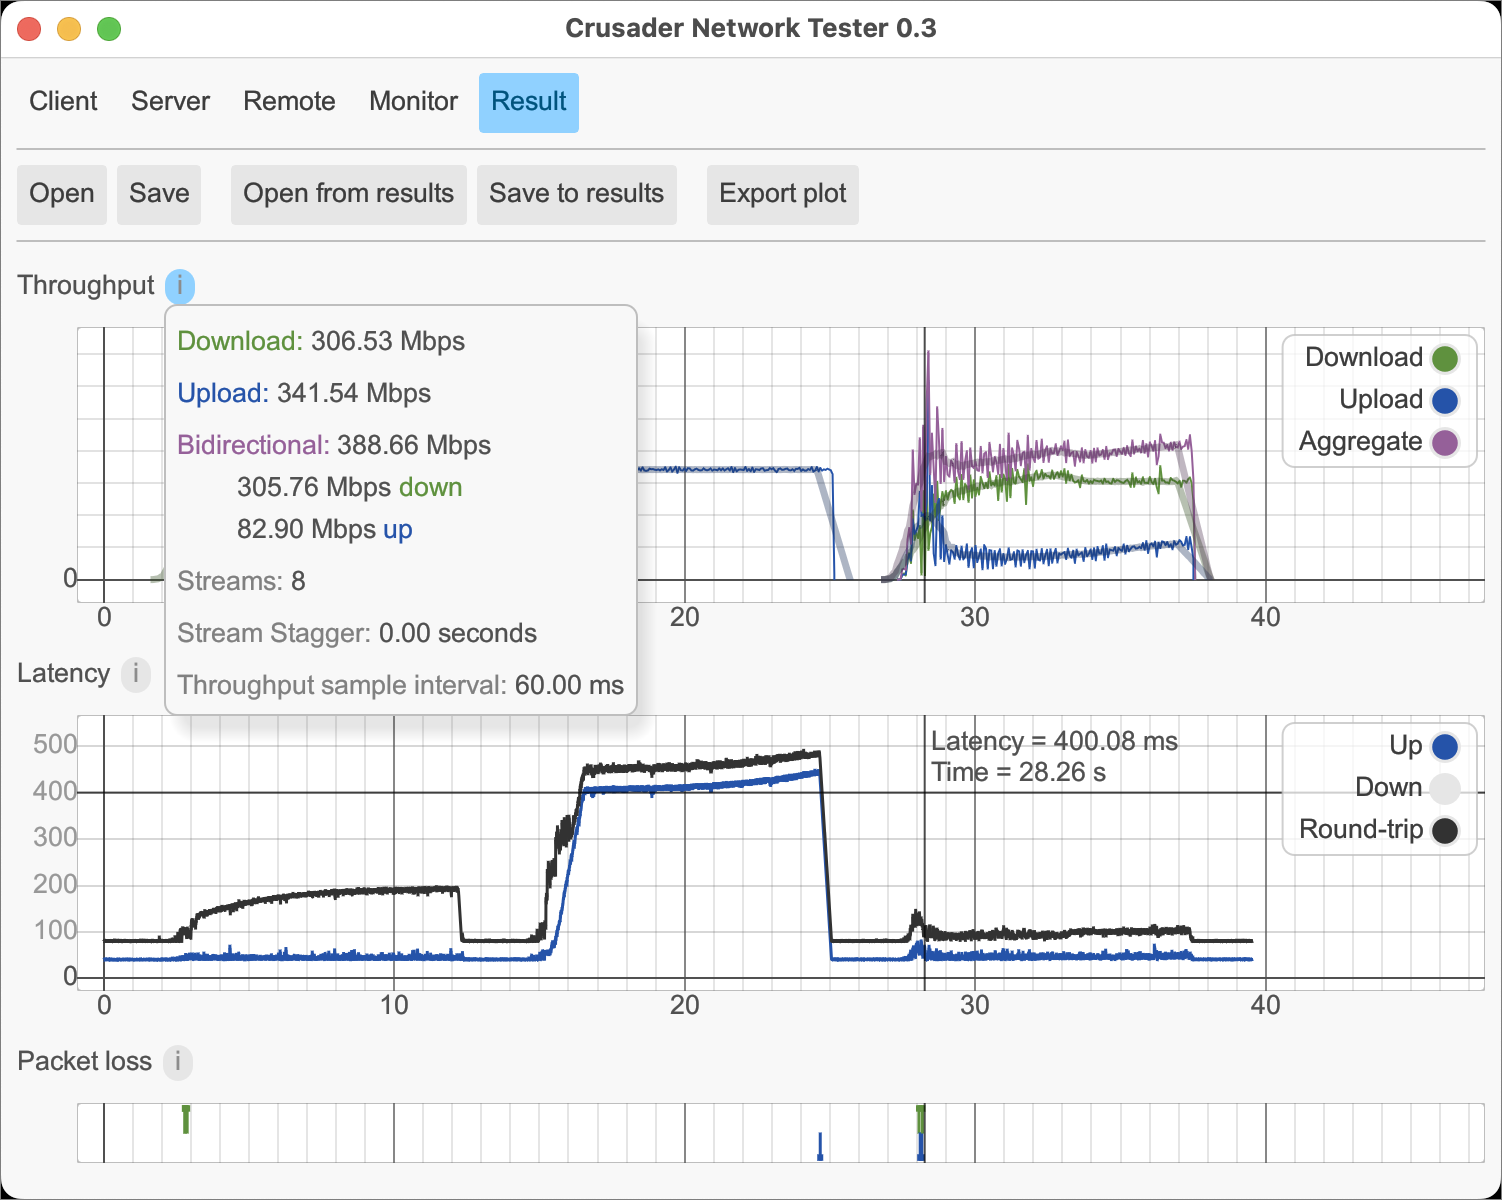
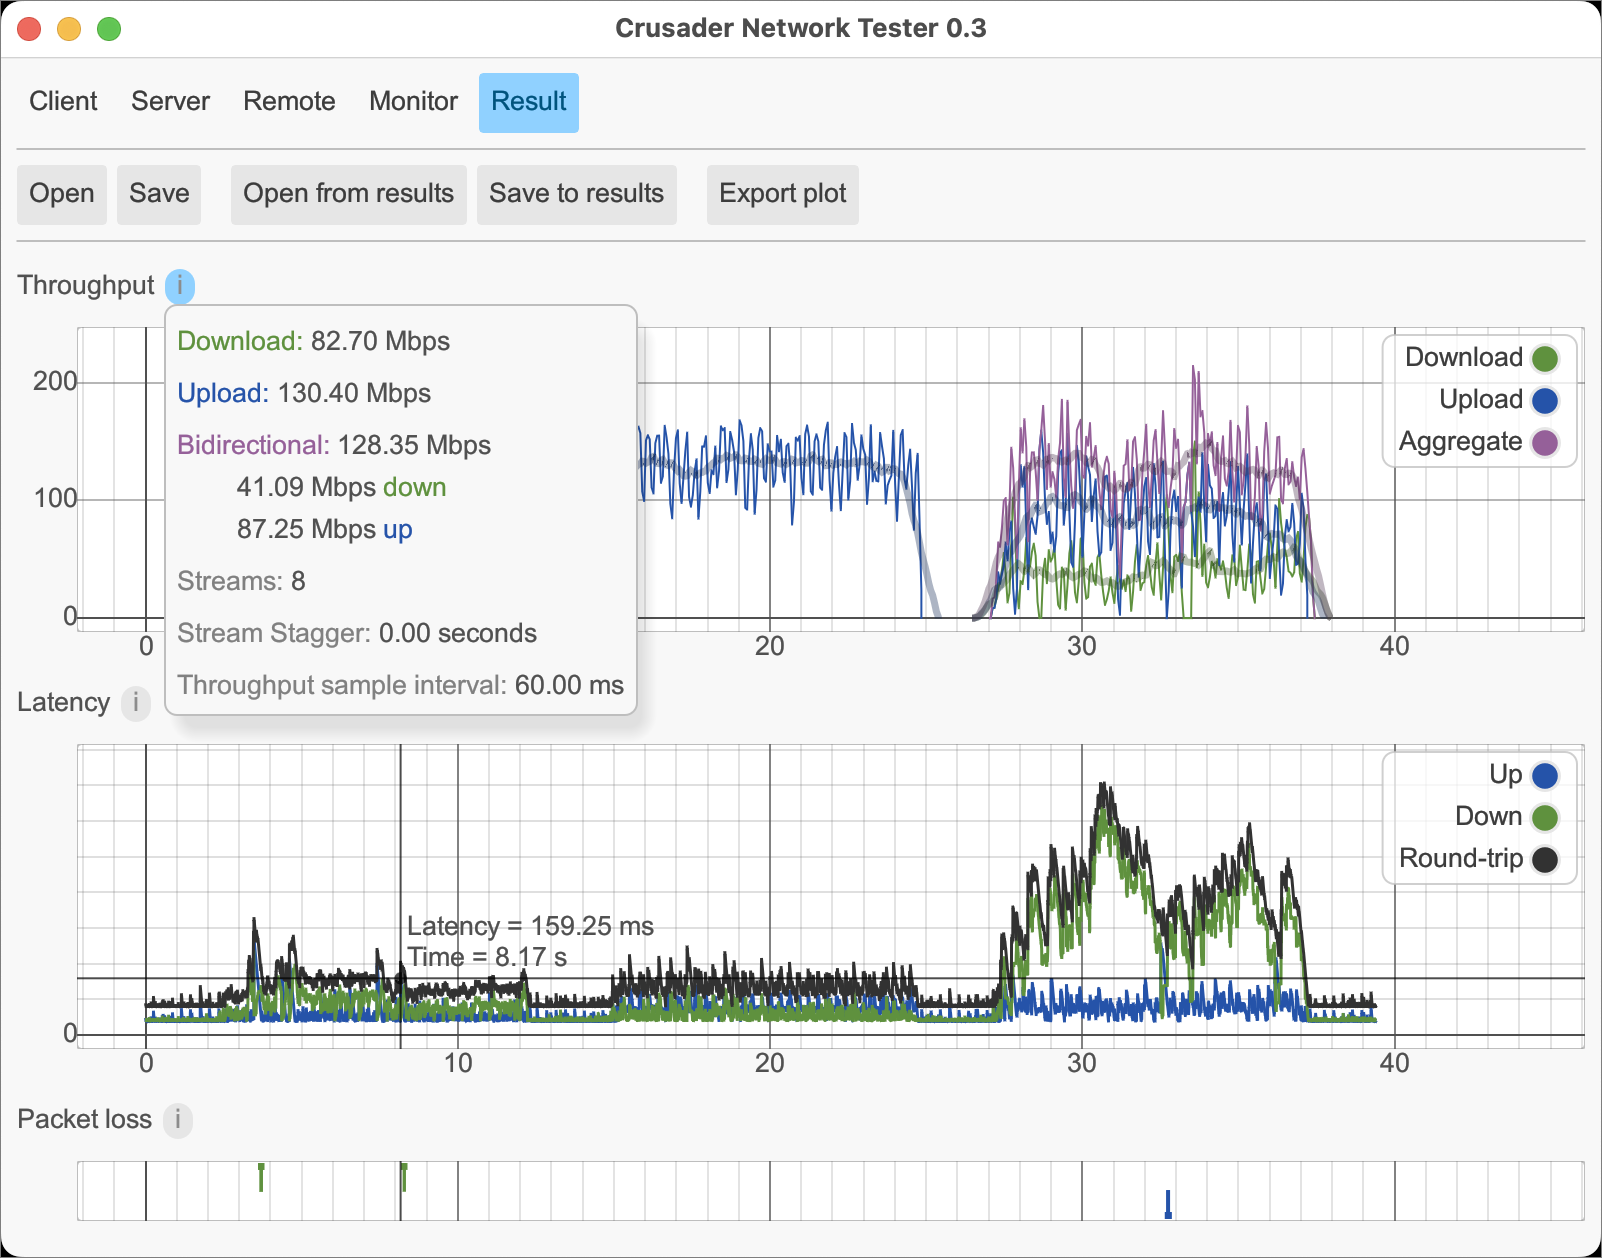
Better screen shots

diff --git a/UNDERSTANDING.md b/UNDERSTANDING.md
@@ -14,7 +14,8 @@ In the image above notice:
 
 * Hovering over a chart shows crosshairs that give the throughput
   or latency of that point in the chart.
-  In the screen shot above, the Latency is about 400 msec.
+  In the screen shot above, the download and upload latency
+  are about 160 msec.
 * Hovering over, or clicking the ⓘ symbol opens a window that gives
   a summary of the statistics.
   See the description below for more definitions of the values.
@@ -23,8 +24,8 @@ In the image above notice:
   hiding the Down chart, and showing only the Up and Round-trip values.
 * Crusader shows that latency increases dramatically both
   for the download and upload portions of the test.
-  During download, it grows to 200 msec;
-  during the upload portion of the test, it's over 400 msec.
+  During download and upload, it's about 160 msec;
+  during the bidirectional portion of the test, it peaks at over 600 msec.
 
 ## Numerical Summary Windows
 
